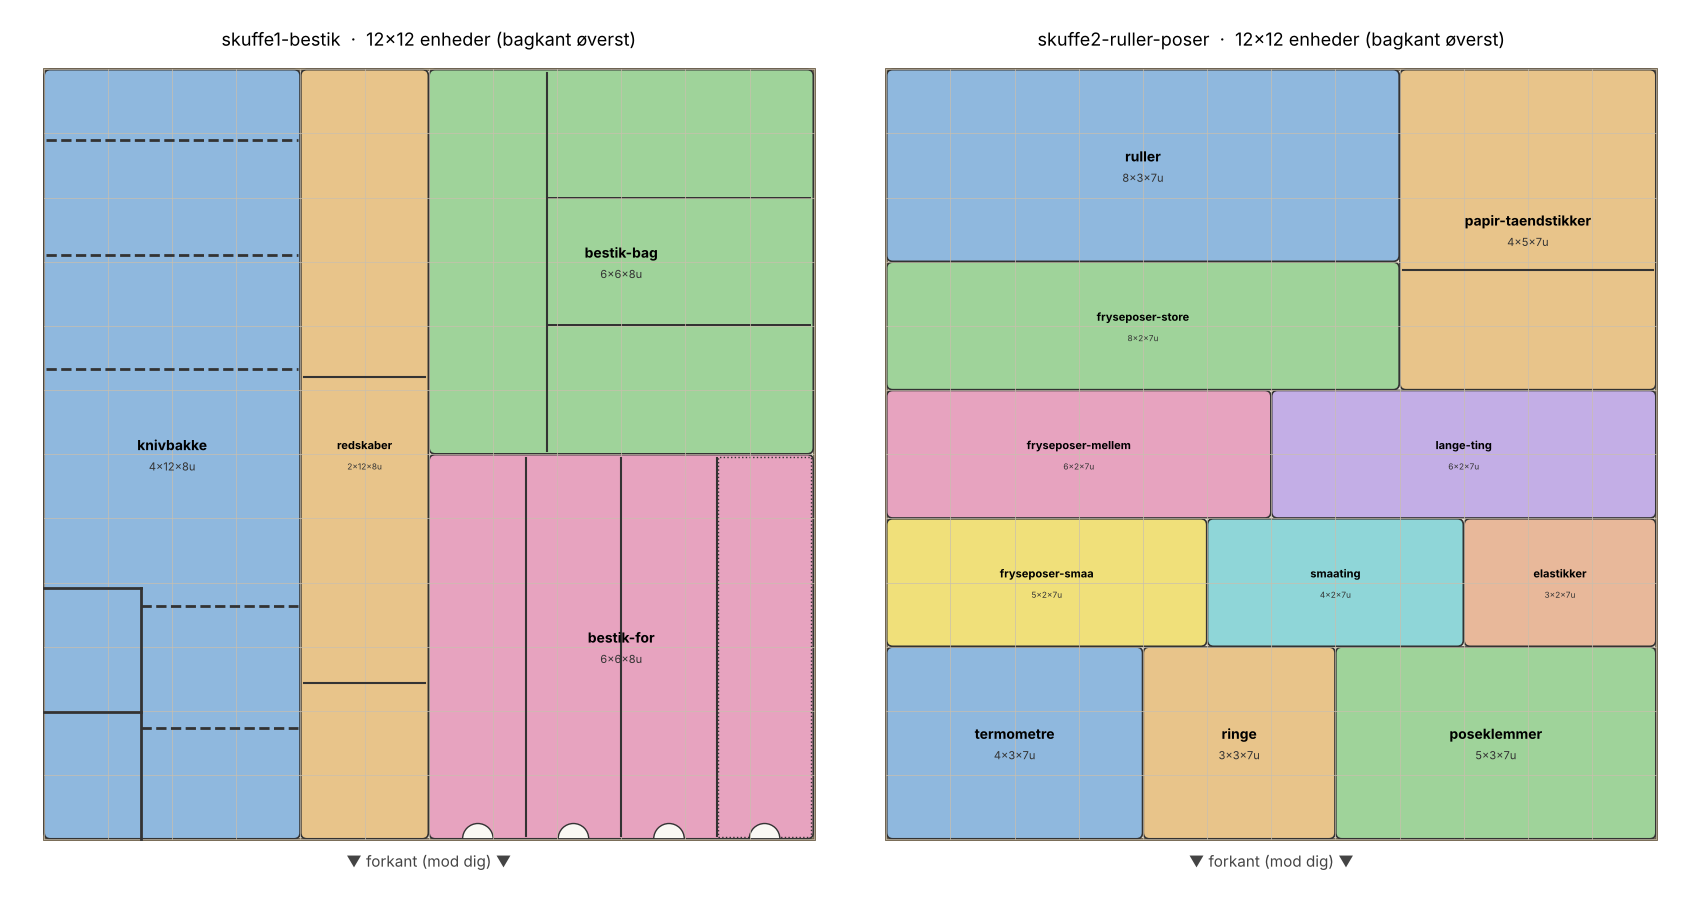
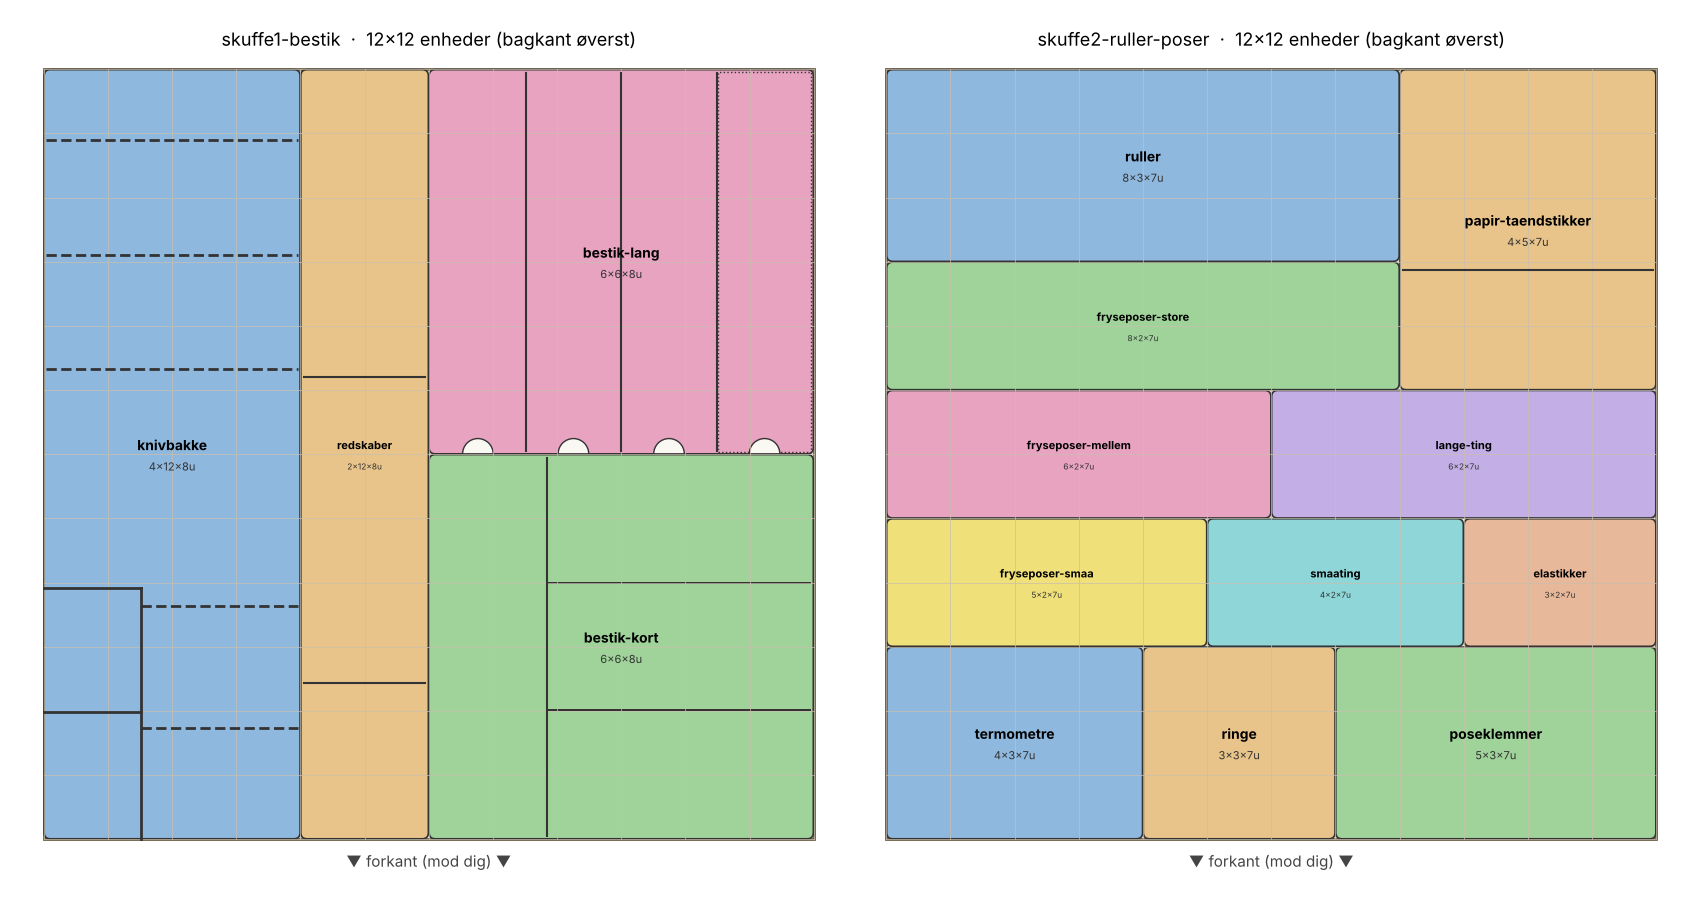
Langt bestik bagerst, kort bestik forrest; navne uden placering
Claude-Session: https://claude.ai/code/session_01RWJ1F52K7vUn6gmBByxogF

Changed region(s): [[0.2494, 0.0622, 0.4988, 0.9333]]

diff --git a/gridfinity-koekken/plan.py b/gridfinity-koekken/plan.py
@@ -31,12 +31,12 @@ BESTIK = [
             label="13 knive i to rækker (6 lange bagerst, 7 korte forrest) + to småtingsrum 59 x 80 mm forrest tv. (Bamix-skær m.m.)"),
     BinSpec("redskaber", 2, 12, H, pos=(4, 0), dividers_y=(200.0, 400.0),
             label="Tre rum i fuld højde: 81 x 199 (piskeris, ostehøvl, spyd), 81 x 199 (værktøj), 81 x 100 (måleskeer, småting)"),
-    BinSpec("bestik-bag", 6, 6, H, pos=(6, 0),
+    BinSpec("bestik-kort", 6, 6, H, pos=(6, 6),
             dividers_x=(STORE_SKEER_B + 0.63,),
             walls=((STORE_SKEER_B + 1.26, C3, W_IN6, C3 + 1.26),
                    (STORE_SKEER_B + 1.26, 2 * C3 + 1.26, W_IN6, 2 * C3 + 2.52)),
             label="Tv.: store skeer 21 cm (75 x 249) · th. tre tværrum 172 x 82: teskeer, børnebestik, kagegafler"),
-    BinSpec("bestik-for", 6, 6, H, pos=(6, 6),
+    BinSpec("bestik-lang", 6, 6, H, pos=(6, 0),
             dividers_x=(C4 + 0.63, 2 * C4 + 1.89, 3 * C4 + 3.15),
             rails=((3 * C4 + 3.78, W_IN6, 0.0, W_IN6, 22.0),),
             front_notch=True, notch_radius=12,
@@ -47,7 +47,7 @@ BESTIK = [
 # Løse indsatser uden Gridfinity-fod
 EXTRA = [
     TraySpec("teske-indsats", width=C4 - 0.8, length=W_IN6 - 0.8, height=56 - 22,
-             label="Øverste lag i rum 4 i bestik-for: lange teskeer. Hviler på lister 22 mm over bunden, spisepinde nedenunder"),
+             label="Øverste lag i rum 4 i bestik-lang: lange teskeer. Hviler på lister 22 mm over bunden, spisepinde nedenunder"),
 ]
 
 # ISTAD-æskerne er 29,5 / 23 / 19 cm lange og 7,5 cm brede -> 2 enheder brede (80 mm indv.)

diff --git a/gridfinity-koekken/printliste.md b/gridfinity-koekken/printliste.md
@@ -11,8 +11,8 @@ Genereret med `MAX_PRINT_UNITS = 6` (længste stykke 251.5 mm).
 | `skuffe1-bestik__knivbakke-b.stl` | 4×6×8 | 167.5 × 251.6 × 56.0 | 165 × 501 × 50 (hel bakke) | 324.7 cm³ | 403 g | 13 knive i to rækker (6 lange bagerst, 7 korte forrest) + to småtingsrum 59 x 80 mm forrest tv. (Bamix-skær m.m.) |
 | `skuffe1-bestik__redskaber-a.stl` | 2×6×8 | 83.5 × 251.6 × 56.0 | 81 × 501 × 50 (hel bakke) | 150.3 cm³ | 186 g | Tre rum i fuld højde: 81 x 199 (piskeris, ostehøvl, spyd), 81 x 199 (værktøj), 81 x 100 (måleskeer, småting) |
 | `skuffe1-bestik__redskaber-b.stl` | 2×6×8 | 83.5 × 251.6 × 56.0 | 81 × 501 × 50 (hel bakke) | 150.3 cm³ | 186 g | Tre rum i fuld højde: 81 x 199 (piskeris, ostehøvl, spyd), 81 x 199 (værktøj), 81 x 100 (måleskeer, småting) |
-| `skuffe1-bestik__bestik-bag.stl` | 6×6×8 | 251.5 × 251.5 × 56.0 | 249 × 249 × 50 (hel bakke) | 426.2 cm³ | 528 g | Tv.: store skeer 21 cm (75 x 249) · th. tre tværrum 172 x 82: teskeer, børnebestik, kagegafler |
-| `skuffe1-bestik__bestik-for.stl` | 6×6×8 | 251.5 × 251.5 × 56.0 | 249 × 249 × 50 (hel bakke) | 437.7 cm³ | 543 g | Fire rum 61 x 249: spiseknive, gafler, spiseskeer, spisepinde (nederst) med løs indsats til lange teskeer ovenpå |
+| `skuffe1-bestik__bestik-kort.stl` | 6×6×8 | 251.5 × 251.5 × 56.0 | 249 × 249 × 50 (hel bakke) | 426.2 cm³ | 528 g | Tv.: store skeer 21 cm (75 x 249) · th. tre tværrum 172 x 82: teskeer, børnebestik, kagegafler |
+| `skuffe1-bestik__bestik-lang.stl` | 6×6×8 | 251.5 × 251.5 × 56.0 | 249 × 249 × 50 (hel bakke) | 437.7 cm³ | 543 g | Fire rum 61 x 249: spiseknive, gafler, spiseskeer, spisepinde (nederst) med løs indsats til lange teskeer ovenpå |
 
 ## skuffe2-ruller-poser
 
@@ -36,6 +36,6 @@ Genereret med `MAX_PRINT_UNITS = 6` (længste stykke 251.5 mm).
 
 | Fil | Enheder | Mål (mm) | Indvendigt (mm) | Volumen | ≈ PLA | Indhold |
 |---|---|---|---|---|---|---|
-| `indsats__teske-indsats.stl` | – | 60.5 × 248.2 × 34.0 | – | 43.7 cm³ | 54 g | Øverste lag i rum 4 i bestik-for: lange teskeer. Hviler på lister 22 mm over bunden, spisepinde nedenunder |
+| `indsats__teske-indsats.stl` | – | 60.5 × 248.2 × 34.0 | – | 43.7 cm³ | 54 g | Øverste lag i rum 4 i bestik-lang: lange teskeer. Hviler på lister 22 mm over bunden, spisepinde nedenunder |
 
 **I alt ca. 4399 g PLA** (20 dele, massivt regnet; reelt forbrug er typisk 10-20 % mindre afhængigt af bund-infill).

diff --git a/gridfinity-koekken/README.md b/gridfinity-koekken/README.md
@@ -43,7 +43,8 @@ STL-filerne laves igen på få sekunder.
 
 ## Skuffe 1 – bestik
 
-Fire bakker. Bagkanten er øverst på tegningen; forkanten (mod dig) nederst. Prioriteten er udnyttelse, ikke udseende:
+Fire bakker. Bagkanten er øverst på tegningen; forkanten (mod dig) nederst. De to 6×6-bakker har samme
+fodaftryk og kan byttes om når som helst, uden nyt print. Prioriteten er udnyttelse, ikke udseende:
 alle rum er i fuld højde, og alt der kan deles med en skillevæg i stedet for to bakkevægge, er det.
 
 * **Knivbakke 4×12** (164 × 500 mm indvendigt), printes i to halvdele.
@@ -57,11 +58,11 @@ alle rum er i fuld højde, og alt der kan deles med en skillevæg i stedet for t
 * **Redskaber 2×12** (81 × 500 mm indvendigt), printes i to halvdele, tre rum i fuld højde:
   199 mm (piskeris, ostehøvl, grillspyd, lange redskaber), 199 mm (hvidløgspresser, rivejern, pizzahjul, proptrækker)
   og 100 mm (måleskeer, småting).
-* **Bestik-bag 6×6**: til venstre et rum på 75 × 249 mm til de store skeer på 21 cm. Til højre tre tværrum på
-  172 × 82 mm til teskeer, børnebestik og kagegafler.
-* **Bestik-for 6×6**: fire rum på 61 × 249 mm med greb-hak i forkanten: spiseknive, gafler, spiseskeer og
+* **Bestik-lang 6×6** (bagerst): fire rum på 61 × 249 mm med greb-hak: spiseknive, gafler, spiseskeer og
   spisepinde. Spisepinde-rummet har to lister 22 mm over bunden, og den løse **teske-indsats** (60 × 248 × 34 mm)
   hviler på dem med de lange teskeer, mens spisepindene ligger nedenunder. Indsatsen har greb-hak i begge ender.
+* **Bestik-kort 6×6** (forrest): til venstre et rum på 75 × 249 mm til de store skeer på 21 cm. Til højre tre tværrum på
+  172 × 82 mm til teskeer, børnebestik og kagegafler.
 
 ## Skuffe 2 – ruller, poser og småting (foreløbig plan, revideres)
 
